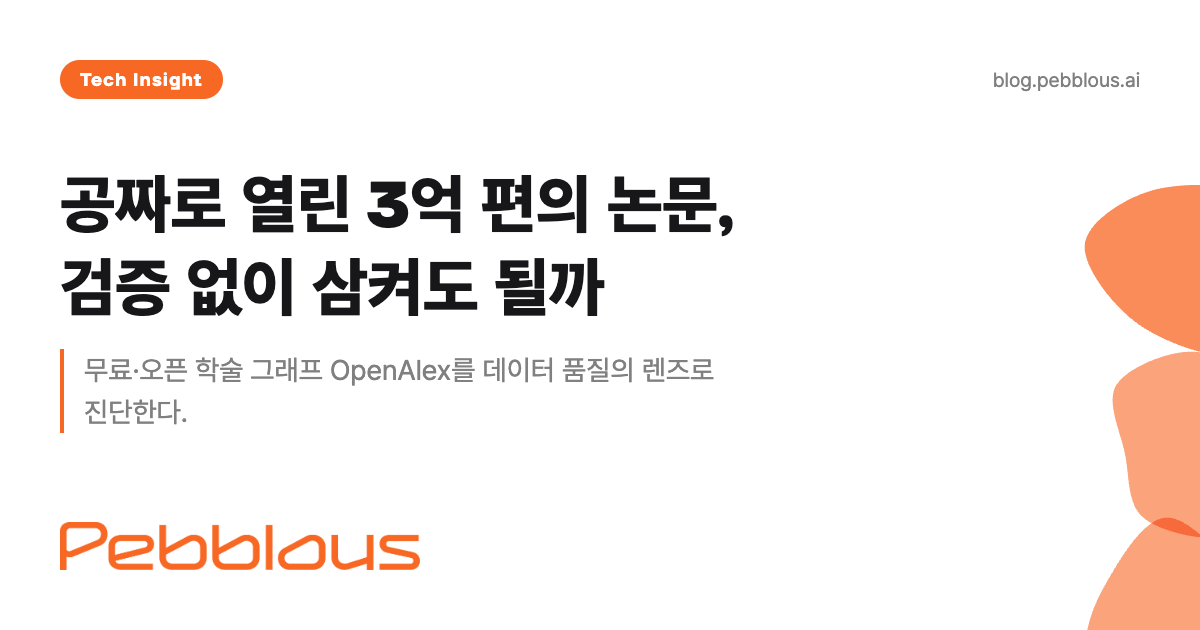
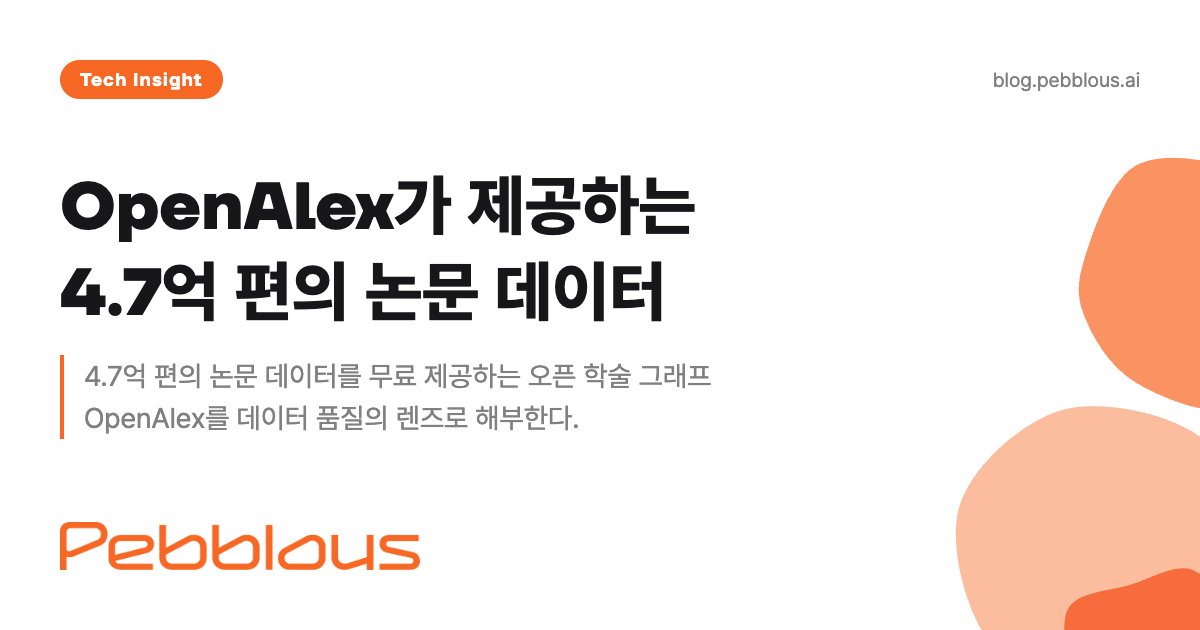
chore(titles): 제목·메타 일괄 교정 1건/5필드 (제목 검토 콘솔)\n\n- openalex-scholarly-graph-data-quality-ko:\n    제목: 공짜로 열린 3억 편의 논문, 검증 없이 삼켜도 될까 → OpenAlex가 제공하는 4.7억 편의 논문 데이터\n    부제목: OpenAlex — 무료·오픈 학술 지식그래프의 커버리지·저자 식별·무결성을 데이터 품질의 렌즈로 진단한다 → 오픈 학술 지식그래프의 커버리지·저자식별·무결성을 데이터 품질의 렌즈로 진단하다\n    SEO 제목: OpenAle

diff --git a/report/openalex-scholarly-graph-data-quality/ko/index.html b/report/openalex-scholarly-graph-data-quality/ko/index.html
@@ -9,8 +9,9 @@
     <meta name="copyright" content="© 2026 Pebblous. All rights reserved.">
     <meta name="robots" content="index, follow">
 
-    <title>OpenAlex 데이터 품질 진단 — 무료 학술 그래프의 커버리지·저자 식별·무결성 | 페블러스</title>
-    <meta name="description" content="3억 편을 무료로 푼 오픈 학술 그래프 OpenAlex를 데이터 품질의 렌즈로 해부한다. 커버리지·저자 disambiguation·철회 반영·AI 오염을 실측 수치와 시각화로 진단하고, AI 파이프라인에 넣기 전 검증 체크리스트를 제시한다.">
+    <title>OpenAlex의 4.7억건 무료 학술 데이터, 그리고 커버리지·저자식별·무결성의 품질 | 페블러스</title>
+    <meta name="og-image-title" content="OpenAlex가 제공하는 4.7억 편의 논문 데이터">
+    <meta name="description" content="4.7억 편의 논문 데이터를 무료 제공하는 오픈 학술 그래프 OpenAlex를 데이터 품질의 렌즈로 해부한다. 커버리지·저자식별·철회 반영·AI 오염을 실측 수치와 시각화로 진단하고, AI 파이프라인에 넣기 전 검증 체크리스트를 제시한다.">
     <meta name="keywords" content="OpenAlex, 학술 데이터베이스, 데이터 품질, 지식그래프, 서지계량, AI 리서치 에이전트, RAG, 오픈 사이언스, disambiguation, AI-Ready Data, Scopus, Web of Science, 철회 논문, paper-mill">
 
     <link rel="canonical" href="https://blog.pebblous.ai/report/openalex-scholarly-graph-data-quality/ko/">
@@ -20,8 +21,8 @@
 
     <!-- Open Graph -->
     <meta property="og:type" content="article">
-    <meta property="og:title" content="공짜로 열린 3억 편의 논문, 검증 없이 삼켜도 될까">
-    <meta property="og:description" content="무료·오픈 학술 그래프 OpenAlex를 데이터 품질의 렌즈로 진단한다. 커버리지·저자 식별·철회·AI 오염을 실측 수치와 시각화로.">
+    <meta property="og:title" content="OpenAlex가 제공하는 4.7억 편의 논문 데이터">
+    <meta property="og:description" content="4.7억 편의 논문 데이터를 무료 제공하는 오픈 학술 그래프 OpenAlex를 데이터 품질의 렌즈로 해부한다. 커버리지·저자식별·철회 반영·AI 오염을 실측 수치와 시각화로 진단하고, AI 파이프라인에 넣기 전 검증 체크리스트를 제시한다.">
     <meta property="og:url" content="https://blog.pebblous.ai/report/openalex-scholarly-graph-data-quality/ko/">
     <meta property="og:image" content="https://blog.pebblous.ai/report/openalex-scholarly-graph-data-quality/ko/image/index.png">
     <meta property="og:image:width" content="1200">
@@ -34,8 +35,8 @@
     <meta name="twitter:card" content="summary_large_image">
     <meta name="twitter:site" content="@pebblous_ai">
     <meta name="twitter:creator" content="@pebblous_ai">
-    <meta name="twitter:title" content="공짜로 열린 3억 편의 논문, 검증 없이 삼켜도 될까">
-    <meta name="twitter:description" content="무료·오픈 학술 그래프 OpenAlex를 데이터 품질의 렌즈로 진단한다. 커버리지·저자 식별·철회·AI 오염을 실측 수치로.">
+    <meta name="twitter:title" content="OpenAlex가 제공하는 4.7억 편의 논문 데이터">
+    <meta name="twitter:description" content="4.7억 편의 논문 데이터를 무료 제공하는 오픈 학술 그래프 OpenAlex를 데이터 품질의 렌즈로 해부한다. 커버리지·저자식별·철회 반영·AI 오염을 실측 수치와 시각화로 진단하고, AI 파이프라인에 넣기 전 검증 체크리스트를 제시한다.">
     <meta name="twitter:image" content="https://blog.pebblous.ai/report/openalex-scholarly-graph-data-quality/ko/image/index.png">
     <meta name="twitter:image:alt" content="OpenAlex 데이터 품질 진단 리포트">
 
@@ -699,9 +700,9 @@
               },
               "recordedAt": "2026-07-23T02:49:24.123Z"
             },
-            mainTitle: "공짜로 열린 3억 편의 논문, 검증 없이 삼켜도 될까",
-            subtitle: "OpenAlex — 무료·오픈 학술 지식그래프의 커버리지·저자 식별·무결성을 데이터 품질의 렌즈로 진단한다",
-            pageTitle: "OpenAlex 데이터 품질 진단 — 무료 학술 그래프의 커버리지·저자 식별·무결성 | 페블러스",
+            mainTitle: "OpenAlex가 제공하는 4.7억 편의 논문 데이터",
+            subtitle: "오픈 학술 지식그래프의 커버리지·저자식별·무결성을 데이터 품질의 렌즈로 진단하다",
+            pageTitle: "OpenAlex의 4.7억건 무료 학술 데이터, 그리고 커버리지·저자식별·무결성의 품질 | 페블러스",
             category: "tech",
             publishDate: "2026-07-23",
             publisher: "(주)페블러스 데이터 커뮤니케이션팀",
